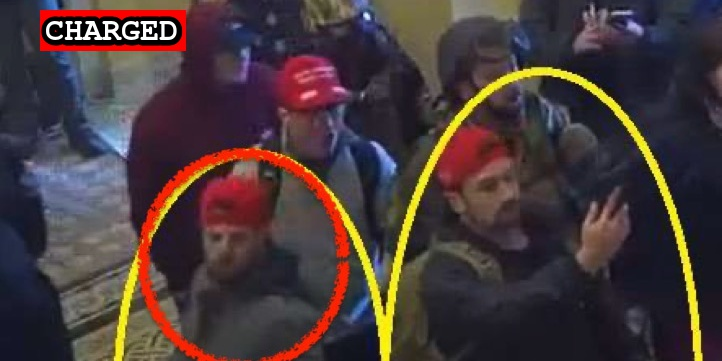
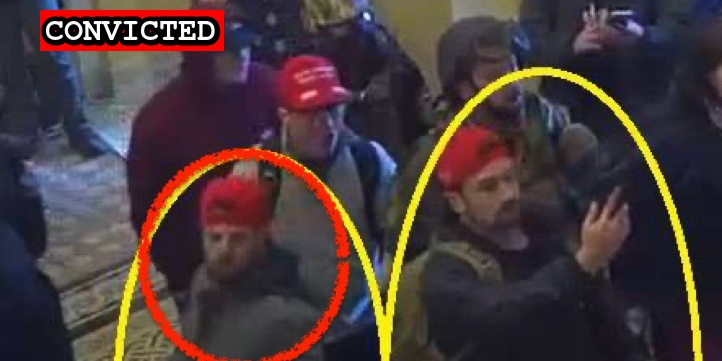
Latest import

Changed region(s): [[0.0914, 0.0, 0.3352, 0.1524]]

diff --git a/commands/suspect-import.ts b/commands/suspect-import.ts
@@ -317,6 +317,7 @@ const linkType = (description: string, lastName?: string) => {
 
       case /Plea Agreement/.test(description):
       case /.* Plea/.test(description):
+      case /.*plea_agreement/.test(description):
         return "Plea Agreement"
 
       case /Affidavit/.test(description):
@@ -417,6 +418,8 @@ const linkType = (description: string, lastName?: string) => {
       case /Response to Defendants Motion for Bond/.test(description):
       case /Opposition to Motion to Set Bond and Conditions of Release/.test(description):
       case /Government Opposition to Motion for Conditional Release/.test(description):
+      case /Government's Opposition to Defendant's Motion for Release/.test(description):
+      case /Government Opposition to Defendant's Motion for Conditional Release/.test(description):
         return "Government Opposition to Release"
 
       case /Opposition to Defendants Motion to Reconsider/.test(description):
@@ -466,6 +469,8 @@ const linkType = (description: string, lastName?: string) => {
       case /Defendants Motion to Revoke Order of Detention/.test(description):
       case /Defense Motion to Amend Order of Detention/.test(description):
       case /Defendant's Memorandum in Support of Pretrial Release/.test(description):
+      case /Defendant's Motion for Reconsideration of Detention/.test(description):
+      case /Defendant's Motion for Conditional Release Pending Trial/.test(description):
           return "Defense Motion for Release"
 
       case /Defense Memorandum in Support of Probationary Sentence/.test(description):
@@ -478,6 +483,10 @@ const linkType = (description: string, lastName?: string) => {
 
       case /Defendant's Motion for a Bill of Particulars/.test(description):
         return "Defendant's Motion for a Bill of Particulars"
+
+      case /Defendant's Motion to Dismiss or Exclude Evidence/.test(description):
+      case /Defendant's Motion to Suppress Statement/.test(description):
+        return "Defense Motion to Dismiss or Exclude Evidence"
 
       // defense response
       case /Defense Opposition to Government's Motion to Continue/.test(description):

diff --git a/docs/_suspects/terry-brown.md b/docs/_suspects/terry-brown.md
@@ -29,16 +29,17 @@ author: seditiontrack
 layout: suspect
 published: true
 caseNumber: 1:21-cr-41
+videos:
 charges:
-  - code: '18 USC § 5104(e)(2)(G)'
-    title: 'Parading, Demonstrating or Picketing in a Capitol Building'
-    url: 'https://www.law.cornell.edu/uscode/text/40/5104'
-    felony: false
+- code: 18 USC § 5104(e)(2)(G)
+  title: Parading, Demonstrating or Picketing in a Capitol Building
+  url: https://www.law.cornell.edu/uscode/text/40/5104
+  felony: false
 ---
-
 - [News Report](https://www.ldnews.com/story/news/2021/01/07/lebanon-county-arrested-during-capitol-siege-has-no-regrets-trump-supporters-election-washington/6588911002/)
 - [DOJ Press Release](https://www.justice.gov/opa/pr/thirteen-charged-federal-court-following-riot-united-states-capitol)
 - [Complaint](https://www.justice.gov/opa/press-release/file/1351716/download)
 - [Statement of Facts](https://www.justice.gov/opa/press-release/file/1351721/download)
 - [Indictment](https://www.justice.gov/usao-dc/case-multi-defendant/file/1364786/download)
 - [Information](https://extremism.gwu.edu/sites/g/files/zaxdzs2191/f/Fichett%20et%20al%20Information_0.pdf)
+- [Plea Agreement](https://extremism.gwu.edu/sites/g/files/zaxdzs2191/f/Terry%20Brown%20Plea%20Agreement.pdf)

diff --git a/docs/_suspects/carly-krzywicki.md b/docs/_suspects/carly-krzywicki.md
@@ -1,8 +1,8 @@
 ---
-name: Jean Lavin
-lastName: Lavin
+name: Carly Krzywicki
+lastName: Krzywicki
 aka:
-residence: Connecticut
+residence:
 status: Charged
 date: 2021-09-09
 charged: 2021-09-09
@@ -11,26 +11,28 @@ convicted:
 sentenced:
 dismissed:
 deceased:
-age: 56
+age:
 occupation:
 affiliations:
 jurisdiction: Federal
-image: /images/preview/jean-lavin.jpg
-suspect: jean-lavin.jpg
+image: /images/preview/carly-krzywicki.jpg
+suspect: carly-krzywicki.jpg
 booking:
 courtroom:
 courthouse:
 raid:
 perpwalk:
-quote: 'Don’t allow 7 states of cheaters to hijack our election!'
-title: Jean Lavin charged on September 9, 2021
+quote:
+title: Carly Krzywicki charged on September 9, 2021
 description: Click for latest case details. Suspects innocent until proven guilty.
 author: seditiontrack
 layout: suspect
-published: true
+published: false
 caseNumber: 1:21-mj-594
 videos:
 charges:
 ---
-- [News Report](https://www.huffpost.com/entry/jean-lavin-carla-krzywicki-arrested-capitol-attack_n_6140e900e4b09519c50adbe5)
+
+- [News Report]()
 - [Statement of Facts](https://www.justice.gov/usao-dc/case-multi-defendant/file/1433371/download)
+- [Complaint](https://www.justice.gov/usao-dc/case-multi-defendant/file/1433376/download)

diff --git a/docs/_suspects/edward-lang.md b/docs/_suspects/edward-lang.md
@@ -29,6 +29,8 @@ author: seditiontrack
 layout: suspect
 published: true
 caseNumber: 1:21-cr-53
+videos:
+charges:
 ---
 - [News Report](https://www.nbcnewyork.com/news/local/crime-and-courts/hudson-valley-man-arrested-in-connection-with-capitol-riot-sources/2834919/)
 - [Complaint](https://www.justice.gov/opa/page/file/1355871/download)
@@ -37,3 +39,5 @@ caseNumber: 1:21-cr-53
 - [Self-Incrimination](https://lawandcrime.com/u-s-capitol-siege/authorities-arrest-man-who-pointed-himself-out-attacking-officers-at-d-c-insurrection-doj/)
 - [Self-Incrimination (Chat)](https://www.propublica.org/article/this-is-war-inside-the-secret-chat-where-far-right-extremists-devised-their-post-capitol-plans)
 - [Indictment](https://www.justice.gov/opa/page/file/1364166/download)
+- [Defense Motion for Release](https://extremism.gwu.edu/sites/g/files/zaxdzs2191/f/Edward%20Jacob%20Lang%20Defense%20Motion%20for%20Conditional%20Release%20Pending%20Trial.pdf)
+- [Government Opposition to Release](https://extremism.gwu.edu/sites/g/files/zaxdzs2191/f/Edward%20Jacob%20Lang%20Government%20Opposition%20to%20Defense%20Motion%20for%20Release.pdf)

diff --git a/docs/_suspects/andrew-hatley.md b/docs/_suspects/andrew-hatley.md
@@ -29,14 +29,15 @@ author: seditiontrack
 layout: suspect
 published: true
 caseNumber: 1:21-cr-98
+videos:
 charges:
-  - code: 18 USC § 5104(e)(2)(G)
-    title: Parading, Demonstrating or Picketing in a Capitol Building
-    url: https://www.law.cornell.edu/uscode/text/40/5104
-    felony: false
+- code: 18 USC § 5104(e)(2)(G)
+  title: Parading, Demonstrating or Picketing in a Capitol Building
+  url: https://www.law.cornell.edu/uscode/text/40/5104
+  felony: false
 ---
-
 - [News Report](https://abcnews4.com/news/local/fbi-sc-man-suspected-of-attending-capitol-protest-taking-picture-with-calhoun-statue)
 - [Complaint](https://www.justice.gov/file/1360781/download)
-- [Statement of Facts](https://www.justice.gov/opa/page/file/1360781/download)
+- [Statement of Facts](https://www.justice.gov/usao-dc/case-multi-defendant/file/1433356/download)
 - [Information](https://www.justice.gov/usao-dc/case-multi-defendant/file/1377736/download)
+- [Plea Agreement](https://www.justice.gov/usao-dc/case-multi-defendant/file/1433351/download)

diff --git a/docs/_suspects/william-calhoun.md b/docs/_suspects/william-calhoun.md
@@ -29,9 +29,13 @@ author: seditiontrack
 layout: suspect
 published: true
 caseNumber: 1:21-cr-116
+videos:
+charges:
 ---
 - [News Report](https://www.11alive.com/article/news/crime/trials/mccall-calhoun-probable-cause-dc-riots/85-b805cef5-82f0-4b22-aa63-d9ca62d6472d)
 - [Complaint](https://www.justice.gov/opa/page/file/1356041/download)
 - [Statement of Facts](https://www.justice.gov/opa/page/file/1356036/download)
 - [Self Incrimination (Interview)](https://www.ajc.com/news/georgia-attorney-among-those-who-broke-into-the-us-capitol/MF3IWF57WRGHBO2G2GTSZII374/)
 - [Indictment](https://www.justice.gov/usao-dc/case-multi-defendant/file/1372146/download)
+- [Defense Motion for Release](https://extremism.gwu.edu/sites/g/files/zaxdzs2191/f/William%20McCall%20Calhoun%20Jr.%20Defense%20Motion%20for%20Reconsideration%20of%20Detention.pdf)
+- [Government Opposition to Release](https://extremism.gwu.edu/sites/g/files/zaxdzs2191/f/William%20McCall%20Calhoun%20Jr.%20Government%20Opposition%20to%20Motion%20for%20Release.pdf)

diff --git a/docs/_suspects/brandon-miller.md b/docs/_suspects/brandon-miller.md
@@ -29,13 +29,14 @@ author: seditiontrack
 layout: suspect
 published: true
 caseNumber: 1:21-cr-266
+videos:
 charges:
-  - code: '18 USC § 5104(e)(2)(G)'
-    title: 'Parading, Demonstrating or Picketing in a Capitol Building'
-    url: 'https://www.law.cornell.edu/uscode/text/40/5104'
-    felony: false
+- code: 18 USC § 5104(e)(2)(G)
+  title: Parading, Demonstrating or Picketing in a Capitol Building
+  url: https://www.law.cornell.edu/uscode/text/40/5104
+  felony: false
 ---
-
 - [News Report](https://www.springfieldnewssun.com/crime/2-more-area-residents-charged-in-us-capitol-riot/N6YW6VWHSFA67OMQO5TNR7GFUE/)
-- [Statement of Facts](https://www.justice.gov/usao-dc/case-multi-defendant/file/1378966/download)
+- [Statement of Facts](https://www.justice.gov/usao-dc/case-multi-defendant/file/1433296/download)
 - [Information](https://www.justice.gov/usao-dc/case-multi-defendant/file/1383066/download)
+- [Plea Agreement](https://www.justice.gov/usao-dc/case-multi-defendant/file/1433291/download)

diff --git a/docs/_suspects/stephanie-miller.md b/docs/_suspects/stephanie-miller.md
@@ -29,13 +29,14 @@ author: seditiontrack
 layout: suspect
 published: true
 caseNumber: 1:21-cr-266
+videos:
 charges:
-  - code: '18 USC § 5104(e)(2)(G)'
-    title: 'Parading, Demonstrating or Picketing in a Capitol Building'
-    url: 'https://www.law.cornell.edu/uscode/text/40/5104'
-    felony: false
+- code: 18 USC § 5104(e)(2)(G)
+  title: Parading, Demonstrating or Picketing in a Capitol Building
+  url: https://www.law.cornell.edu/uscode/text/40/5104
+  felony: false
 ---
-
 - [News Report](https://www.springfieldnewssun.com/crime/2-more-area-residents-charged-in-us-capitol-riot/N6YW6VWHSFA67OMQO5TNR7GFUE/)
-- [Statement of Facts](https://www.justice.gov/usao-dc/case-multi-defendant/file/1378966/download)
+- [Statement of Facts](https://www.justice.gov/usao-dc/case-multi-defendant/file/1433306/download)
 - [Information](https://www.justice.gov/usao-dc/case-multi-defendant/file/1383071/download)
+- [Plea Agreement](https://www.justice.gov/usao-dc/case-multi-defendant/file/1433301/download)

diff --git a/docs/_suspects/nicholas-perretta.md b/docs/_suspects/nicholas-perretta.md
@@ -3,11 +3,11 @@ name: Nicholas Perretta
 lastName: Perretta
 aka:
 residence: Pennsylvania
-status: Charged
+status: Convicted
 date: 2021-06-23
 charged: 2021-06-23
 indicted:
-convicted:
+convicted: 2021-09-15
 sentenced:
 dismissed:
 deceased:
@@ -28,7 +28,12 @@ description: Click for latest case details. Suspects innocent until proven guilt
 author: seditiontrack
 layout: suspect
 published: true
+caseNumber:
+videos:
+charges:
 ---
 
 - [News Story](https://triblive.com/local/westmoreland/3-more-western-pa-residents-including-scottdale-man-charged-in-capitol-riots/)
-- [Statement of Facts](https://www.justice.gov/usao-dc/case-multi-defendant/file/1412486/download)
+- [Statement of Facts](https://www.justice.gov/usao-dc/case-multi-defendant/file/1433336/download)
+- [Information](https://www.justice.gov/usao-dc/case-multi-defendant/file/1433326/download)
+- [Plea Agreement](https://www.justice.gov/usao-dc/case-multi-defendant/file/1433331/download)

diff --git a/docs/_suspects/bruce-harrison.md b/docs/_suspects/bruce-harrison.md
@@ -37,7 +37,7 @@ charges:
   felony: false
 ---
 - [News Report](https://www.chicagotribune.com/news/criminal-justice/ct-us-capitol-breach-illinois-charges-wangler-harrison-20210517-jz7eahg2rfgahcwaoyzs27amkq-story.html)
-- [Statement of Facts](https://www.justice.gov/usao-dc/case-multi-defendant/file/1394446/download)
+- [Statement of Facts](https://www.justice.gov/usao-dc/case-multi-defendant/file/1432416/download)
 - [DOJ Press Release](https://www.justice.gov/usao-dc/case-multi-defendant/file/1394446/download)
-- [Information](https://extremism.gwu.edu/sites/g/files/zaxdzs2191/f/Douglas%20Wangler%20and%20Bruce%20Harrison%20Information.pdf)
-- [Plea Agreement](https://extremism.gwu.edu/sites/g/files/zaxdzs2191/f/Bruce%20Harrison%20Plea%20Agreement.pdf)
+- [Information](https://www.justice.gov/usao-dc/case-multi-defendant/file/1413796/download)
+- [Plea Agreement](https://www.justice.gov/usao-dc/case-multi-defendant/file/1432411/download)

diff --git a/docs/_suspects/mitchell-vukich.md b/docs/_suspects/mitchell-vukich.md
@@ -3,13 +3,13 @@ name: Mitchell Vukich
 lastName: Vukich
 aka:
 residence: Pennsylvania
-status: Charged
+status: Convicted
 date: 2021-06-23
 charged: 2021-06-23
 indicted:
-convicted: 
-sentenced: 
-dismissed: 
+convicted: 2021-09-15
+sentenced:
+dismissed:
 deceased:
 age:
 occupation:
@@ -29,6 +29,11 @@ author: seditiontrack
 layout: suspect
 published: true
 caseNumber: 1:21-mj-476
+videos:
+charges:
 ---
+
 - [News Story](https://triblive.com/local/westmoreland/3-more-western-pa-residents-including-scottdale-man-charged-in-capitol-riots/)
-- [Statement of Facts](https://www.justice.gov/usao-dc/case-multi-defendant/file/1412456/download)
+- [Statement of Facts](https://www.justice.gov/usao-dc/case-multi-defendant/file/1433346/download)
+- [Information](https://www.justice.gov/usao-dc/case-multi-defendant/file/1433326/download)
+- [Plea Agreement](https://www.justice.gov/usao-dc/case-multi-defendant/file/1433341/download)

diff --git a/docs/_suspects/russell-taylor.md b/docs/_suspects/russell-taylor.md
@@ -10,6 +10,7 @@ indicted: 2021-06-09
 convicted:
 sentenced:
 dismissed:
+deceased:
 age: 40
 occupation:
 affiliations: Three Percenters, American Phoenix Project
@@ -27,9 +28,11 @@ description: Click for latest case details. Suspects innocent until proven guilt
 author: seditiontrack
 layout: suspect
 published: true
+caseNumber: 1:21-cr-392
+videos:
+charges:
 ---
-
 - [News Report](https://www.reuters.com/world/us/three-percenters-militia-members-charged-us-capitol-attack-2021-06-10/)
-- [Indictment](https://extremism.gwu.edu/sites/g/files/zaxdzs2191/f/Kinnison%20et%20al%20Indictment.pdf)
+- [Indictment](https://www.justice.gov/opa/press-release/file/1403191/download)
 - [FBI Raid](https://www.cnn.com/2021/02/03/politics/fbi-raids-capitol-attack-investigation/index.html)
 - [DOJ Press Release](https://www.justice.gov/usao-dc/pr/six-california-men-four-whom-self-identify-members-three-percenter-militias-indicted)
